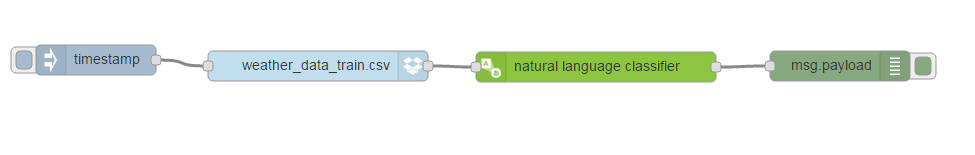
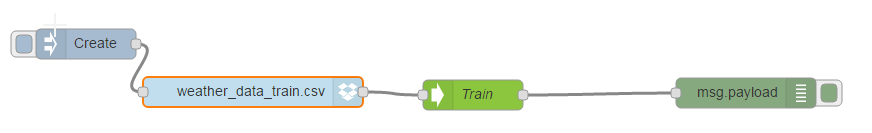
Updates to NLC

Changed region(s): [[0.0, 0.2105, 0.9908, 0.8421]]

diff --git a/basic_examples/natural_language_classifier/README.md b/basic_examples/natural_language_classifier/README.md
@@ -39,9 +39,11 @@ You will need a Classifier ID, this can be obtained by clicking the Classifiers 
 
 ![ScreenShot](images/nlc_classifier_id.png)
 
+The flows for this part of the lab are here -> [flows](nlc_flows.json)
+
 ##Connecting to a existing NLC Service on Bluemix
  
-In this lab we will assume (for now) that you have created a NLC Service in Bluemix and now wish to (a) check it's status and (b) ask it a question via calls in Node-RED.  We also assume you have created a Node-RED application using the Node-RED Starter Community boilerplate in Bluemix.
+In this lab we will assume (for now) that you have created a NLC Service in Bluemix and now wish to (a) check it's status and (b) ask it a question via calls in Node-RED. We also assume you have created a Node-RED application using the Node-RED Starter Community boilerplate in Bluemix.
 
 Open your Node-RED flow editor and drag/drop an two Inject nodes, two Function nodes, one http request node and one Debug node and join up as shown below  :
  
@@ -109,7 +111,7 @@ Click the button of the Inject node and look at the contents of the Debug Tab
 
 ##Using the NLC Service from Node-RED
 
-First bind a NLC Watson Service to your Application
+Create a new Application using the IOT Starter Boilerplate.  Then bind a NLC Watson Service to your Application using the steps below.
 
 Select your Application and click the Natural Language Classifier Watson Service
 
@@ -127,7 +129,7 @@ Once the Application has started go back to your palette and drag a Natural Lang
 
 ![ScreenShot](images/nlc_edit_training.png)
 
-We assume that you have enabled your Application to have the both the Dropbox and Box Node-RED nodes added to your Application - if you haven't then see -> ???.  Make sure you have uploaded file weather_data_train.csv to your Dropbox or Box locations (copy of the file is here -> [weather csv file](weather_data_train.csv).
+We assume that you have enabled your Application to have the both the Dropbox and Box Node-RED nodes added to your Application - if you haven't then see -> [Dropbox nodes](https://github.com/watson-developer-cloud/node-red-labs/tree/master/utilities/dropbox_setup).  Make sure you have uploaded file weather_data_train.csv to your Dropbox or Box locations (copy of the file is here -> [weather csv file](weather_data_train.csv)).
 
 Add the right Dropbox node to the palette
 
@@ -149,7 +151,7 @@ The ID of the NLC is returned in the Debug Tab of Node-RED - in the example belo
 
 ![ScreenShot](images/nlc_debug_tab_nlc_id.png)
 
-NOTE : the NLC is now being trained - this could take some time.  There is currently (April 2016) no method of being able to know when the training is finished.  As an example some loop code has been written in Node-RED which poles the NLC Service to determine when the service has completed the training and is in Available mode - this is shown below and including in the copy of the flow but will not be explained in detail.
+NOTE : the NLC is now being trained - this could take some time (30-50 mins).  There is currently (April 2016) no method of being able to know when the training is finished.  Some loop code can been written in Node-RED which poles the NLC Service to determine when the service has completed the training and is in Available mode but this is not part of this lab.
 
 To see the status of the training then go to the NLC Service of your App and click on the Service
 
@@ -159,13 +161,30 @@ You should be presented with a page which has a "Access beta toolkit" button
 
 ![ScreenShot](images/nlc_access_beta_toolkit.png)
 
-Click the button and you should see a list of NLC classifiers which are in Traing or Available mode.
+Click the button and you should see a list of NLC classifiers which are in Training or Available mode (you will need to click the Sign In button so the Toolkit can access your NLC classifiers).  Note down one of the Classifier IDs since you will test the deletion functionality later on in this Lab.
+
+![ScreenShot](images/nlc_access_beta_toolkit_list.png)
+
+Add 3 more injectm NLC and Debug nodes as shown below
+
+![ScreenShot](images/nlc_all_flows.png)
+
+Change the second NLC node to contain List in the dropdown
+
+![ScreenShot](images/nlc_dropdown_list.png)
+
+Change the next NLC to Classify and the final one to Remove.  NOTE : For the Remove Inject node you must change the Inject string to a Classifier that exists (you noted one down earlier).
+
+Click on the Get List Inject node - in the Debug Tab you will see a list of possible classifiers.
+
+![ScreenShot](images/nlc_list.png)
+
+Click on the "Is it hot?" node - in the Debug Tab you will see (as before) the confidence level that the NLC classifier returns
+
+Click on the Inject node connected to the Remove NLC node - **be careful** - when clicked it will delete the classifier.
+
+
+The flows for this part of the lab are here -> [flows](nlc_flows_with_nlc_service.json)
 
 
 
-
-
-
-
-
-The flows for this lab are here -> [flows](nlc_flows.json)
